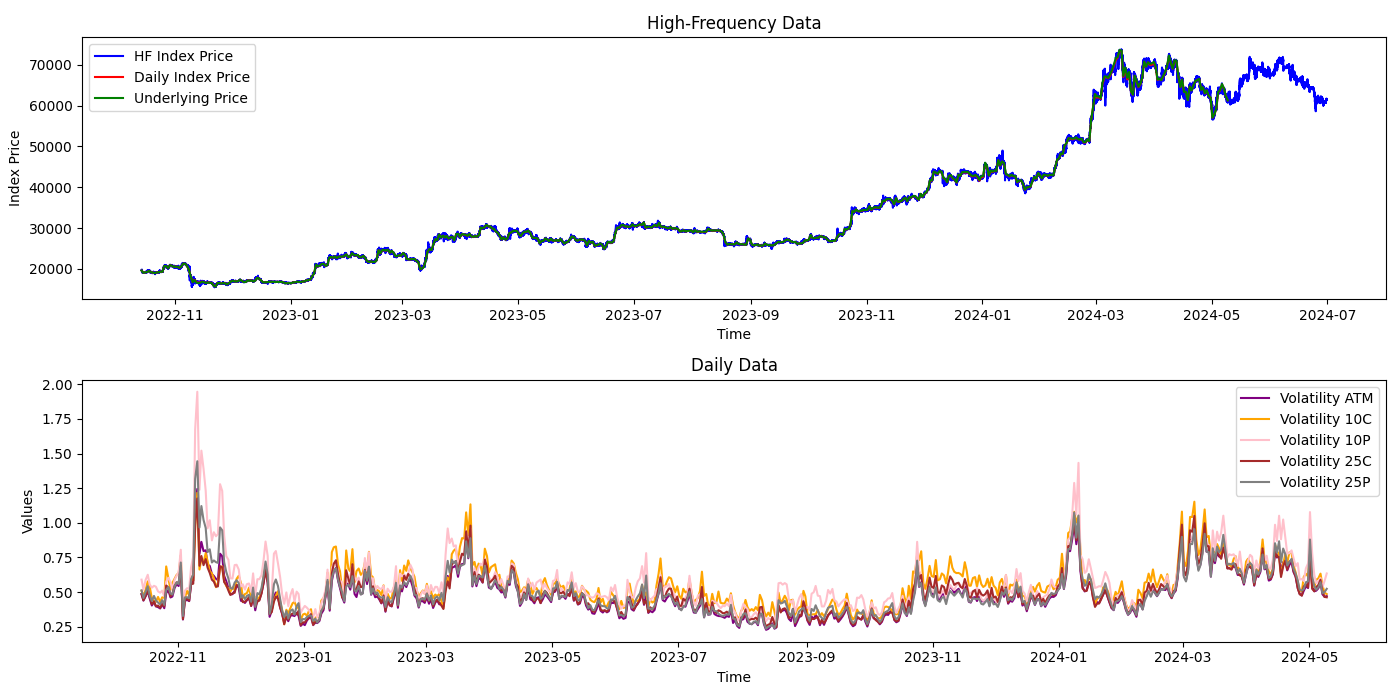
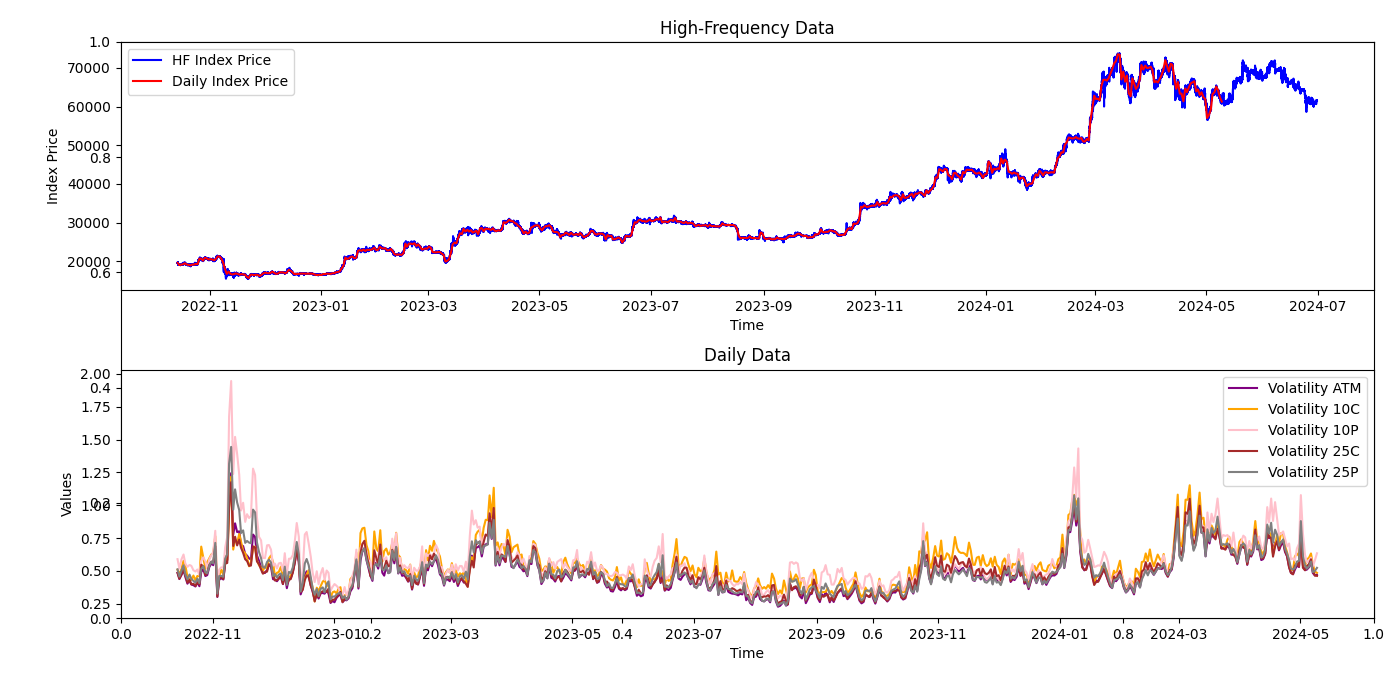
reformatted

diff --git a/data/curate.py b/data/curate.py
@@ -1,65 +1,83 @@
+#!/usr/bin/env python3
+'''
+Description: Combines the high frequency (hf) index data with the daily option volatility data into a curated high frequency options volatility and index price dataset.
+Author: Eric Archerman
+Date: 16 July 2024
+'''
 import os
 import pandas as pd
 import matplotlib.pyplot as plt
 
-loc = 'data/data_raw/'
 
-hf_files = [
-    '22-7-12.csv',
-    '23-1-7.csv',
-    '23-7-12.csv',
-    '24-1-7.csv',
-]
+def data():
+    loc = 'data/data_raw/'
 
-daily_file = 'option-interday.csv'
+    hf_files = [
+        '22-7-12.csv',
+        '23-1-7.csv',
+        '23-7-12.csv',
+        '24-1-7.csv',
+    ]
 
-hf_data_sep = [pd.read_csv(os.path.join(loc, file)) for file in hf_files]
-hf_data = pd.concat(hf_data_sep, ignore_index=True)
+    daily_file = 'option-daily.csv'
 
-daily_data = pd.read_csv(os.path.join(loc, daily_file)).drop([]"currency", axis='columns')
+    hf_data_sep = [pd.read_csv(os.path.join(loc, file)) for file in hf_files]
+    hf_data = pd.concat(hf_data_sep, ignore_index=True)
 
-print("read csv files:")
+    daily_data = pd.read_csv(os.path.join(loc, daily_file)).drop(["currency", "data", 'underlyingPrice'], axis='columns')
 
-print(hf_data.head())
-print(daily_data.head())
+    hf_data['timestamp'] = pd.to_datetime(hf_data['timestamp'], unit='ms')
+    daily_data['timestamp'] = pd.to_datetime(daily_data['timestamp'], unit='ms')
 
-##############################################
+    latest_date = daily_data.iloc[-1, 1]
+    hf_data = hf_data[hf_data['timestamp'] <= latest_date]
 
-hf_data['timestamp'] = pd.to_datetime(hf_data['timestamp'], unit='ms')
-daily_data['timestamp'] = pd.to_datetime(daily_data['timestamp'], unit='ms')
+    print(hf_data.tail())
+    print(daily_data.tail())
 
-print("converted csv times:")
+    return hf_data, daily_data
 
-print(hf_data.head())
-print(daily_data.head())
 
-##############################################
 
-# Plot high-frequency data
-fig, ax1 = plt.subplots(figsize=(14, 7))
 
-# Plot indexPrice from high-frequency data
-plt.subplot(2, 1, 1)
-plt.plot(hf_data['timestamp'], hf_data['indexPrice'], label='HF Index Price', color='blue')
-plt.plot(daily_data['timestamp'], daily_data['indexPrice'], label='Daily Index Price', color='red')
-plt.plot(daily_data['timestamp'], daily_data['underlyingPrice'], label='Underlying Price', color='green')
-plt.title('High-Frequency Data')
-plt.xlabel('Time')
-plt.ylabel('Index Price')
-plt.legend()
 
-# Plot daily data
-plt.subplot(2, 1, 2)
-plt.plot(daily_data['timestamp'], daily_data['volATM'], label='Volatility ATM', color='purple')
-plt.plot(daily_data['timestamp'], daily_data['vol10C'], label='Volatility 10C', color='orange')
-plt.plot(daily_data['timestamp'], daily_data['vol10P'], label='Volatility 10P', color='pink')
-plt.plot(daily_data['timestamp'], daily_data['vol25C'], label='Volatility 25C', color='brown')
-plt.plot(daily_data['timestamp'], daily_data['vol25P'], label='Volatility 25P', color='grey')
+def plot(hf_data, daily_data):
+    # Plot high-frequency data
+    fig, ax1 = plt.subplots(figsize=(14, 7))
 
-plt.title('Daily Data')
-plt.xlabel('Time')
-plt.ylabel('Values')
-plt.legend()
+    # Plot indexPrice from high-frequency data
+    plt.subplot(2, 1, 1)
+    plt.plot(hf_data['timestamp'], hf_data['indexPrice'], label='HF Index Price', color='blue')
+    plt.plot(daily_data['timestamp'], daily_data['indexPrice'], label='Daily Index Price', color='red')
+    plt.title('High-Frequency Data')
+    plt.xlabel('Time')
+    plt.ylabel('Index Price')
+    plt.legend()
 
-plt.tight_layout()
-plt.show()
+    # Plot daily data
+    plt.subplot(2, 1, 2)
+    plt.plot(daily_data['timestamp'], daily_data['volATM'], label='Volatility ATM', color='purple')
+    plt.plot(daily_data['timestamp'], daily_data['vol10C'], label='Volatility 10C', color='orange')
+    plt.plot(daily_data['timestamp'], daily_data['vol10P'], label='Volatility 10P', color='pink')
+    plt.plot(daily_data['timestamp'], daily_data['vol25C'], label='Volatility 25C', color='brown')
+    plt.plot(daily_data['timestamp'], daily_data['vol25P'], label='Volatility 25P', color='grey')
+
+    plt.title('Daily Data')
+    plt.xlabel('Time')
+    plt.ylabel('Values')
+    plt.legend()
+
+    plt.tight_layout()
+    plt.show()
+
+
+
+def main():
+    hf, daily = data()
+    
+    # plot(hf, daily)
+
+
+
+if __name__ == '__main__':
+    main()
